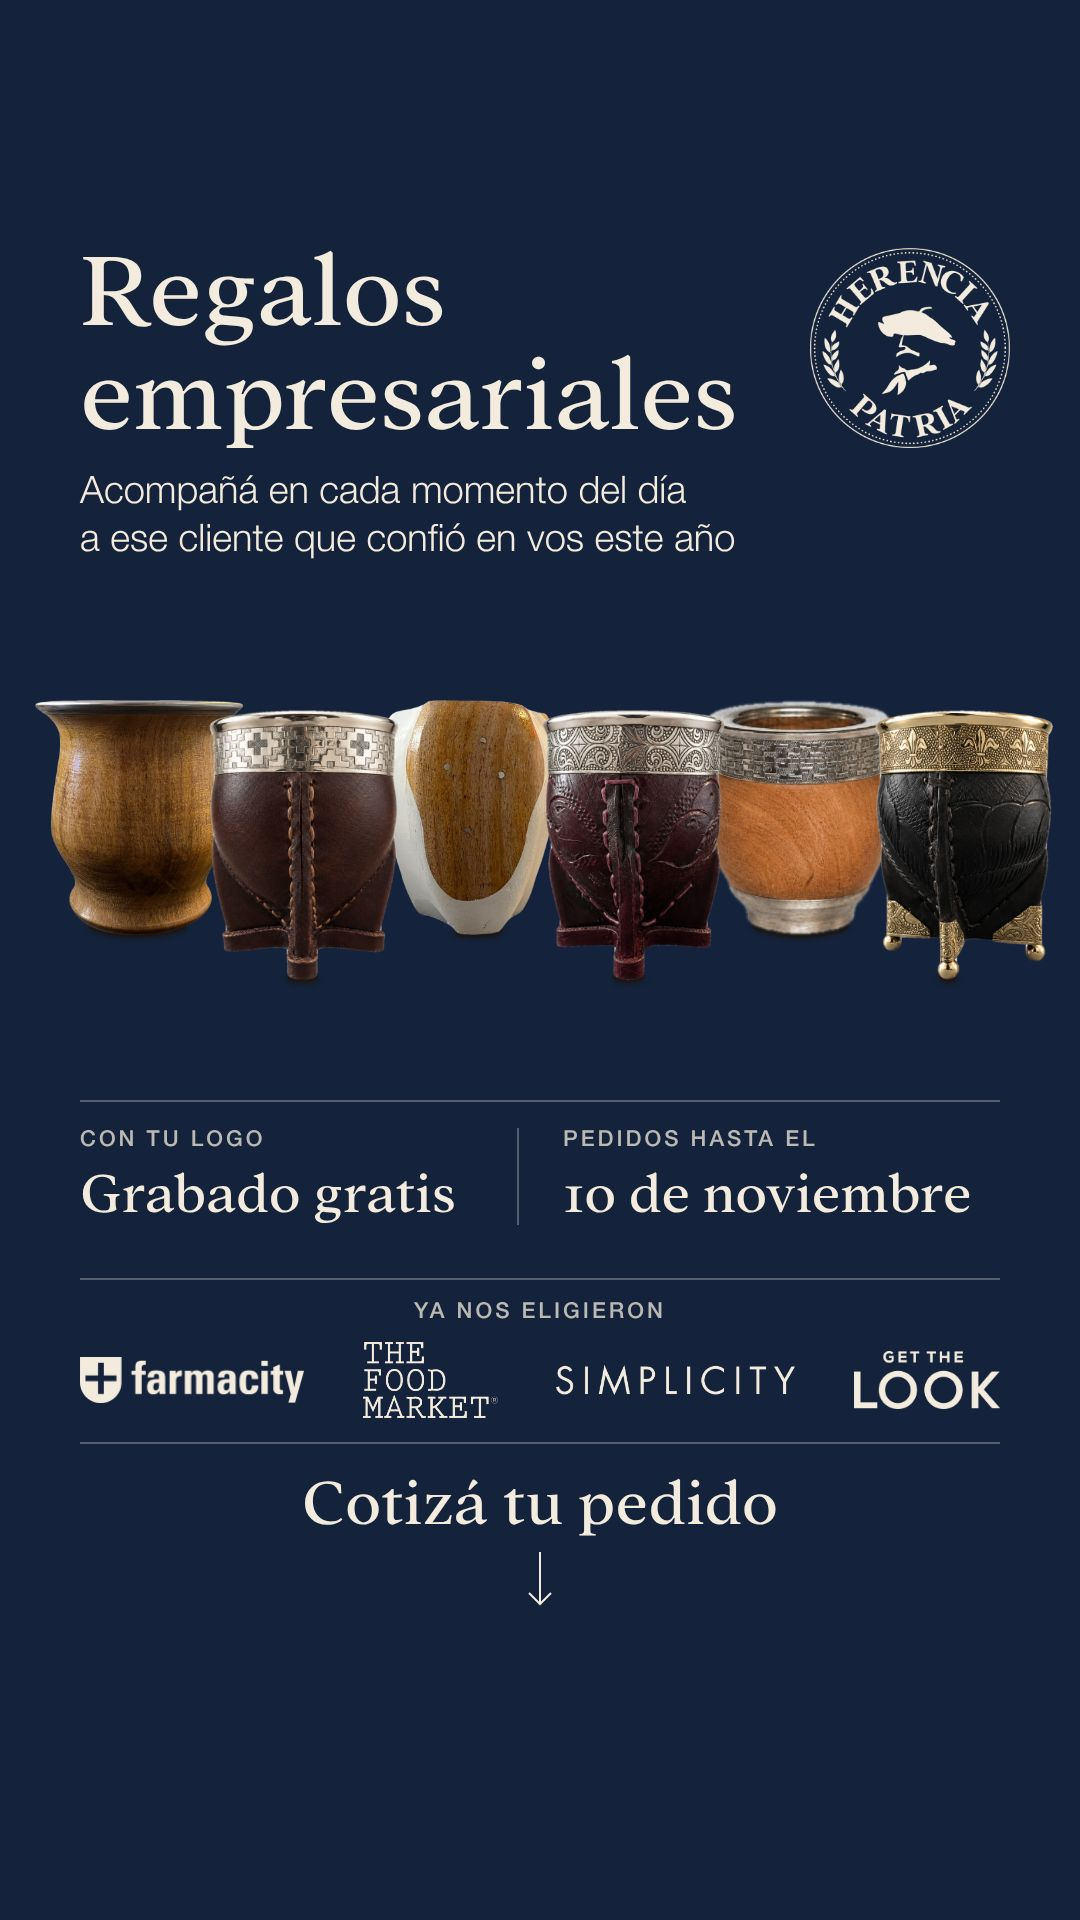
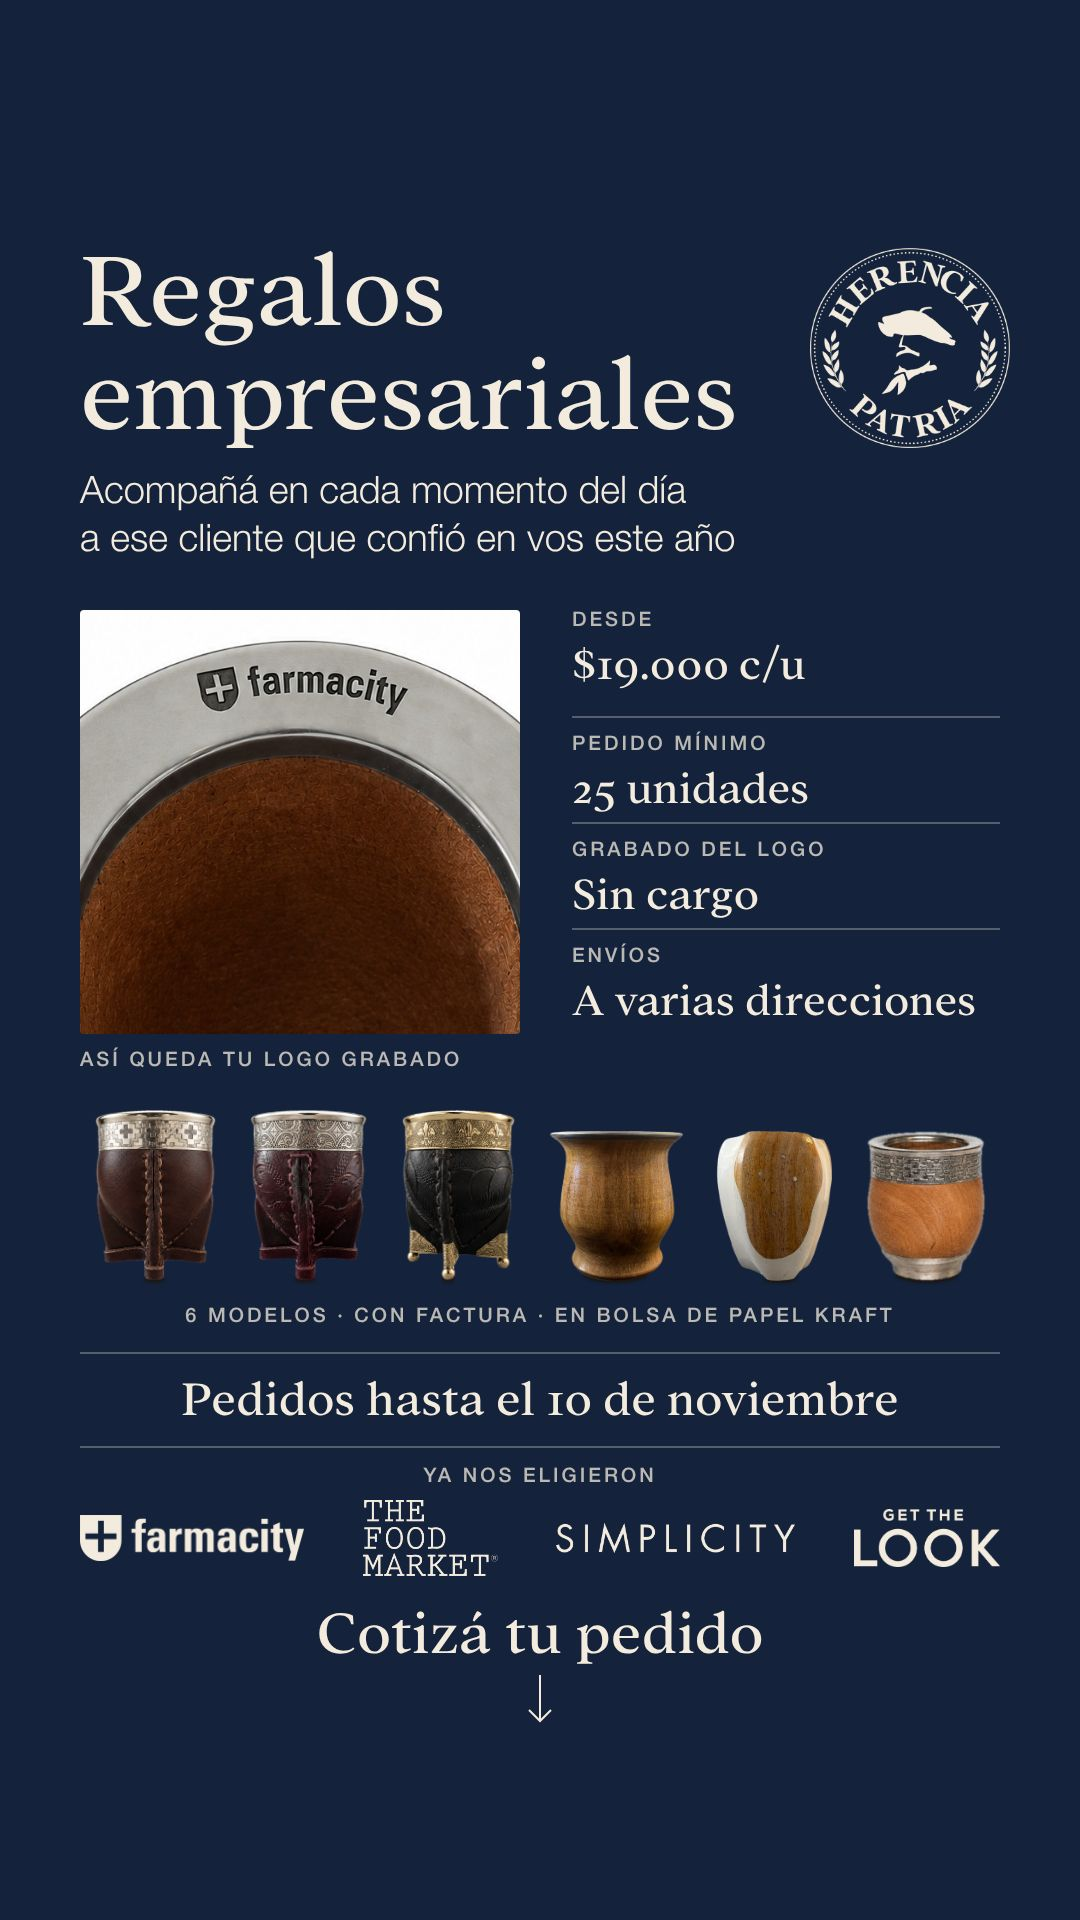
Historia empresas B pensada para quien compra: grabado real, precio, mínimo y envíos
Claude-Session: https://claude.ai/code/session_012H3xPSmbqKoMmc2aK7okNH

Changed region(s): [[0.0306, 0.3125, 0.9778, 0.875], [0.7944, 0.7812, 0.9167, 0.8125], [0.275, 0.8438, 0.3056, 0.875]]

diff --git a/src/HerenciaPatria/HistoriaEmpresasLogo.tsx b/src/HerenciaPatria/HistoriaEmpresasLogo.tsx
@@ -2,23 +2,17 @@ import { AbsoluteFill, Img, staticFile } from "remotion";
 import { colors, fonts } from "./brand";
 
 // Historia de Instagram (1080x1920) para los pedidos empresariales de fin
-// de año. Fondo azul y letras crema, para que la alpaca y el dorado de las
-// virolas se luzcan. Los mates, fotos del catálogo, van agrupados como en una
-// foto de familia, en zigzag: uno atrás (algarrobo, más chico y apoyado un poco más
-// arriba) y uno adelante (calabaza), que lo tapa apenas de costado. Debajo, el beneficio y la
-// fecha límite en dos columnas; abajo, quiénes ya los eligieron y el llamado
-// con una flecha hacia abajo. Addington y Helvetica Neue, como el resto de la
-// marca. Lo que hay que leer va entre 230 y 1700: Instagram tapa arriba el
-// perfil y abajo la respuesta o el botón del anuncio.
+// de año, pensada para quien compra en una empresa: lo que necesita saber
+// para cotizar sin miedo a quedar mal. Fondo azul y letras crema. Arriba el
+// título; al medio, a la izquierda, la foto real de un logo grabado en la
+// virola (la prueba de cómo queda) y a la derecha los datos duros (precio,
+// mínimo, grabado, envíos). Debajo, los seis modelos en fila (fotos del
+// catálogo), la fecha límite, quiénes ya los eligieron y el llamado con una
+// flecha hacia abajo. Addington y Helvetica Neue, como el resto de la marca.
+// Lo que hay que leer va entre 230 y 1700: Instagram tapa arriba el perfil y
+// abajo la respuesta o el botón del anuncio.
 
 const margen = 80;
-
-// El grupo: el centro del primer mate y la distancia entre uno y otro.
-const desde = 139;
-const paso = 165;
-// Atrás (algarrobo) y adelante (calabaza): dónde apoyan y su alto.
-const atras = { apoyo: 935, alto: 235 };
-const adelante = { apoyo: 980, alto: 270 };
 // Los recortes traen debajo de la base su sombra de contacto: 24 px más cada
 // 700 de mate.
 const conPie = 724 / 700;
@@ -26,21 +20,26 @@ const conPie = 724 / 700;
 export const HistoriaEmpresasLogo: React.FC<{
   readonly titulo: string[];
   readonly bajada: string[];
-  // Primero los tres de calabaza (adelante), después los tres de algarrobo
-  // (atrás): recortes con su sombra de contacto (tools/recorte_mate.py).
-  readonly mates: string[];
-  // El beneficio y la fecha límite: lo chico de arriba y lo grande.
-  readonly beneficio: [string, string];
-  readonly urgencia: [string, string];
+  // Foto real de un logo grabado en la virola, y lo que dice debajo.
+  readonly grabado: { readonly foto: string; readonly leyenda: string };
+  // Los datos duros: rótulo chico y valor grande.
+  readonly datos: [rotulo: string, valor: string][];
+  // Los seis modelos, con su alto en la fila (los de calabaza son algo más
+  // grandes): recortes con su sombra de contacto (tools/recorte_mate.py).
+  readonly mates: [archivo: string, alto: number][];
+  readonly modelos: string;
+  readonly urgencia: string;
   readonly confianza: string;
   readonly logos: [archivo: string, alto: number][];
   readonly accion: string;
 }> = ({
   titulo,
   bajada,
+  grabado,
+  datos,
   mates,
+  modelos,
   urgencia,
-  beneficio,
   confianza,
   logos,
   accion,
@@ -48,9 +47,10 @@ export const HistoriaEmpresasLogo: React.FC<{
   const rotulo: React.CSSProperties = {
     fontFamily: fonts.sans,
     fontWeight: 500,
-    fontSize: 22,
+    fontSize: 20,
     letterSpacing: 3,
     textTransform: "uppercase",
+    opacity: 0.75,
   };
   const filete: React.CSSProperties = {
     position: "absolute",
@@ -60,22 +60,6 @@ export const HistoriaEmpresasLogo: React.FC<{
     background: colors.crema,
     opacity: 0.3,
   };
-  // Los de atrás van en los lugares pares (0, 2, 4) y los de adelante en
-  // los impares.
-  const fila = (srcs: string[], { apoyo, alto }: typeof atras, lado: number) =>
-    srcs.map((src, i) => (
-      <Img
-        key={src}
-        src={staticFile(src)}
-        style={{
-          position: "absolute",
-          top: apoyo - alto,
-          left: desde + (2 * i + lado) * paso,
-          height: alto * conPie,
-          transform: "translateX(-50%)",
-        }}
-      />
-    ));
   return (
     <AbsoluteFill
       style={{
@@ -116,48 +100,105 @@ export const HistoriaEmpresasLogo: React.FC<{
           <div key={l}>{l}</div>
         ))}
       </div>
-      {/* El grupo: primero los de atrás, para que los de adelante los tapen. */}
-      {fila(mates.slice(3), atras, 0)}
-      {fila(mates.slice(0, 3), adelante, 1)}
-      {/* El beneficio y la fecha límite: tipografía, dos columnas. */}
-      <div style={{ ...filete, top: 1100 }} />
+      {/* La prueba: un logo grabado de verdad, en la virola. */}
+      <Img
+        src={staticFile(grabado.foto)}
+        style={{
+          position: "absolute",
+          top: 610,
+          left: margen,
+          width: 440,
+          height: 424,
+          objectFit: "cover",
+          borderRadius: 4,
+        }}
+      />
+      <div style={{ ...rotulo, position: "absolute", top: 1050, left: margen }}>
+        {grabado.leyenda}
+      </div>
+      {/* Los datos duros, uno debajo del otro. */}
       <div
         style={{
           position: "absolute",
-          top: 1128,
-          left: margen,
+          top: 610,
+          left: 572,
           right: margen,
-          display: "flex",
         }}
       >
-        {[beneficio, urgencia].map(([chico, grande], k) => (
+        {datos.map(([r, v], i) => (
           <div
-            key={chico}
+            key={r}
             style={{
-              flex: 1,
-              paddingLeft: k === 1 ? 44 : 0,
-              borderLeft:
-                k === 1 ? `2px solid rgba(243,235,221,0.3)` : undefined,
+              height: 106,
+              borderTop:
+                i === 0 ? undefined : `2px solid rgba(243,235,221,0.3)`,
+              paddingTop: i === 0 ? 0 : 16,
+              boxSizing: "border-box",
             }}
           >
-            <div style={{ ...rotulo, opacity: 0.75 }}>{chico}</div>
-            <div style={{ fontSize: 58, lineHeight: 1.05, marginTop: 10 }}>
-              {grande}
+            <div style={rotulo}>{r}</div>
+            <div style={{ fontSize: 46, lineHeight: 1.1, marginTop: 6 }}>
+              {v}
             </div>
           </div>
         ))}
       </div>
-      <div style={{ ...filete, top: 1278 }} />
-      {/* Quiénes ya los eligieron: los logos en crema. */}
+      {/* Los seis modelos, en fila. */}
       <div
         style={{
           position: "absolute",
-          top: 1300,
+          top: 1110,
+          left: margen + 10,
+          right: margen + 10,
+          height: 170 * conPie,
+          display: "flex",
+          justifyContent: "space-between",
+          alignItems: "flex-end",
+        }}
+      >
+        {mates.map(([src, alto]) => (
+          <Img
+            key={src}
+            src={staticFile(src)}
+            style={{ display: "block", height: alto * conPie }}
+          />
+        ))}
+      </div>
+      <div
+        style={{
+          ...rotulo,
+          position: "absolute",
+          top: 1306,
           left: 0,
           right: 0,
           textAlign: "center",
+        }}
+      >
+        {modelos}
+      </div>
+      <div style={{ ...filete, top: 1352 }} />
+      <div
+        style={{
+          position: "absolute",
+          top: 1370,
+          left: 0,
+          right: 0,
+          textAlign: "center",
+          fontSize: 50,
+        }}
+      >
+        {urgencia}
+      </div>
+      <div style={{ ...filete, top: 1446 }} />
+      {/* Quiénes ya los eligieron: los logos en crema. */}
+      <div
+        style={{
           ...rotulo,
-          opacity: 0.75,
+          position: "absolute",
+          top: 1466,
+          left: 0,
+          right: 0,
+          textAlign: "center",
         }}
       >
         {confianza}
@@ -165,10 +206,10 @@ export const HistoriaEmpresasLogo: React.FC<{
       <div
         style={{
           position: "absolute",
-          top: 1340,
+          top: 1500,
           left: margen,
           right: margen,
-          height: 80,
+          height: 76,
           display: "flex",
           justifyContent: "space-between",
           alignItems: "center",
@@ -182,12 +223,11 @@ export const HistoriaEmpresasLogo: React.FC<{
           />
         ))}
       </div>
-      <div style={{ ...filete, top: 1442 }} />
       {/* El llamado, centrado, con una flecha hacia abajo. Texto, no botón. */}
       <div
         style={{
           position: "absolute",
-          top: 1464,
+          top: 1596,
           left: 0,
           right: 0,
           display: "flex",
@@ -195,15 +235,15 @@ export const HistoriaEmpresasLogo: React.FC<{
           alignItems: "center",
         }}
       >
-        <div style={{ fontSize: 66 }}>{accion}</div>
+        <div style={{ fontSize: 62 }}>{accion}</div>
         <svg
           width={26}
-          height={56}
-          viewBox="0 0 26 56"
-          style={{ marginTop: 8 }}
+          height={50}
+          viewBox="0 0 26 50"
+          style={{ marginTop: 4 }}
         >
           <path
-            d="M 13 0 V 52 M 2 41 L 13 52 L 24 41"
+            d="M 13 0 V 46 M 2 35 L 13 46 L 24 35"
             fill="none"
             stroke={colors.crema}
             strokeWidth={2}

diff --git a/src/Root.tsx b/src/Root.tsx
@@ -422,7 +422,8 @@ export const RemotionRoot: React.FC = () => {
           accion: "Cotizá tu pedido",
         }}
       />
-      {/* Pedidos empresariales, con el lugar del logo señalado en el mate.
+      {/* Pedidos empresariales, para quien compra en la empresa: la prueba
+          del grabado y los datos para cotizar.
           npx remotion still HP-Historia-Empresas-Logo entregas/historia-empresas-fin-de-ano-b.jpg */}
       <Still
         id="HP-Historia-Empresas-Logo"
@@ -435,19 +436,29 @@ export const RemotionRoot: React.FC = () => {
             "Acompañá en cada momento del día",
             "a ese cliente que confió en vos este año",
           ],
-          // Arriba los de calabaza (simple, repujado y base bolita); abajo
-          // los de algarrobo (liso, pintado e imperial con base). Fotos del
-          // catálogo.
+          grabado: {
+            foto: "grabado-logo.jpg",
+            leyenda: "Así queda tu logo grabado",
+          },
+          datos: [
+            ["Desde", "$19.000 c/u"],
+            ["Pedido mínimo", "25 unidades"],
+            ["Grabado del logo", "Sin cargo"],
+            ["Envíos", "A varias direcciones"],
+          ] as [string, string][],
+          // Los de calabaza (simple, repujado y base bolita), algo más
+          // grandes, y los de algarrobo (liso, pintado e imperial con base).
+          // Fotos del catálogo.
           mates: [
-            "recortes/calabaza-simple.png",
-            "recortes/calabaza-repujado.png",
-            "recortes/calabaza-base-bolita.png",
-            "recortes/algarrobo-liso.png",
-            "recortes/algarrobo-pintado.png",
-            "recortes/algarrobo-imperial-con-base.png",
-          ],
-          urgencia: ["Pedidos hasta el", "10 de noviembre"] as [string, string],
-          beneficio: ["Con tu logo", "Grabado gratis"] as [string, string],
+            ["recortes/calabaza-simple.png", 170],
+            ["recortes/calabaza-repujado.png", 170],
+            ["recortes/calabaza-base-bolita.png", 170],
+            ["recortes/algarrobo-liso.png", 150],
+            ["recortes/algarrobo-pintado.png", 150],
+            ["recortes/algarrobo-imperial-con-base.png", 150],
+          ] as [string, number][],
+          modelos: "6 modelos · Con factura · En bolsa de papel kraft",
+          urgencia: "Pedidos hasta el 10 de noviembre",
           confianza: "Ya nos eligieron",
           logos: [
             ["clientes/farmacity-crema.png", 46],
